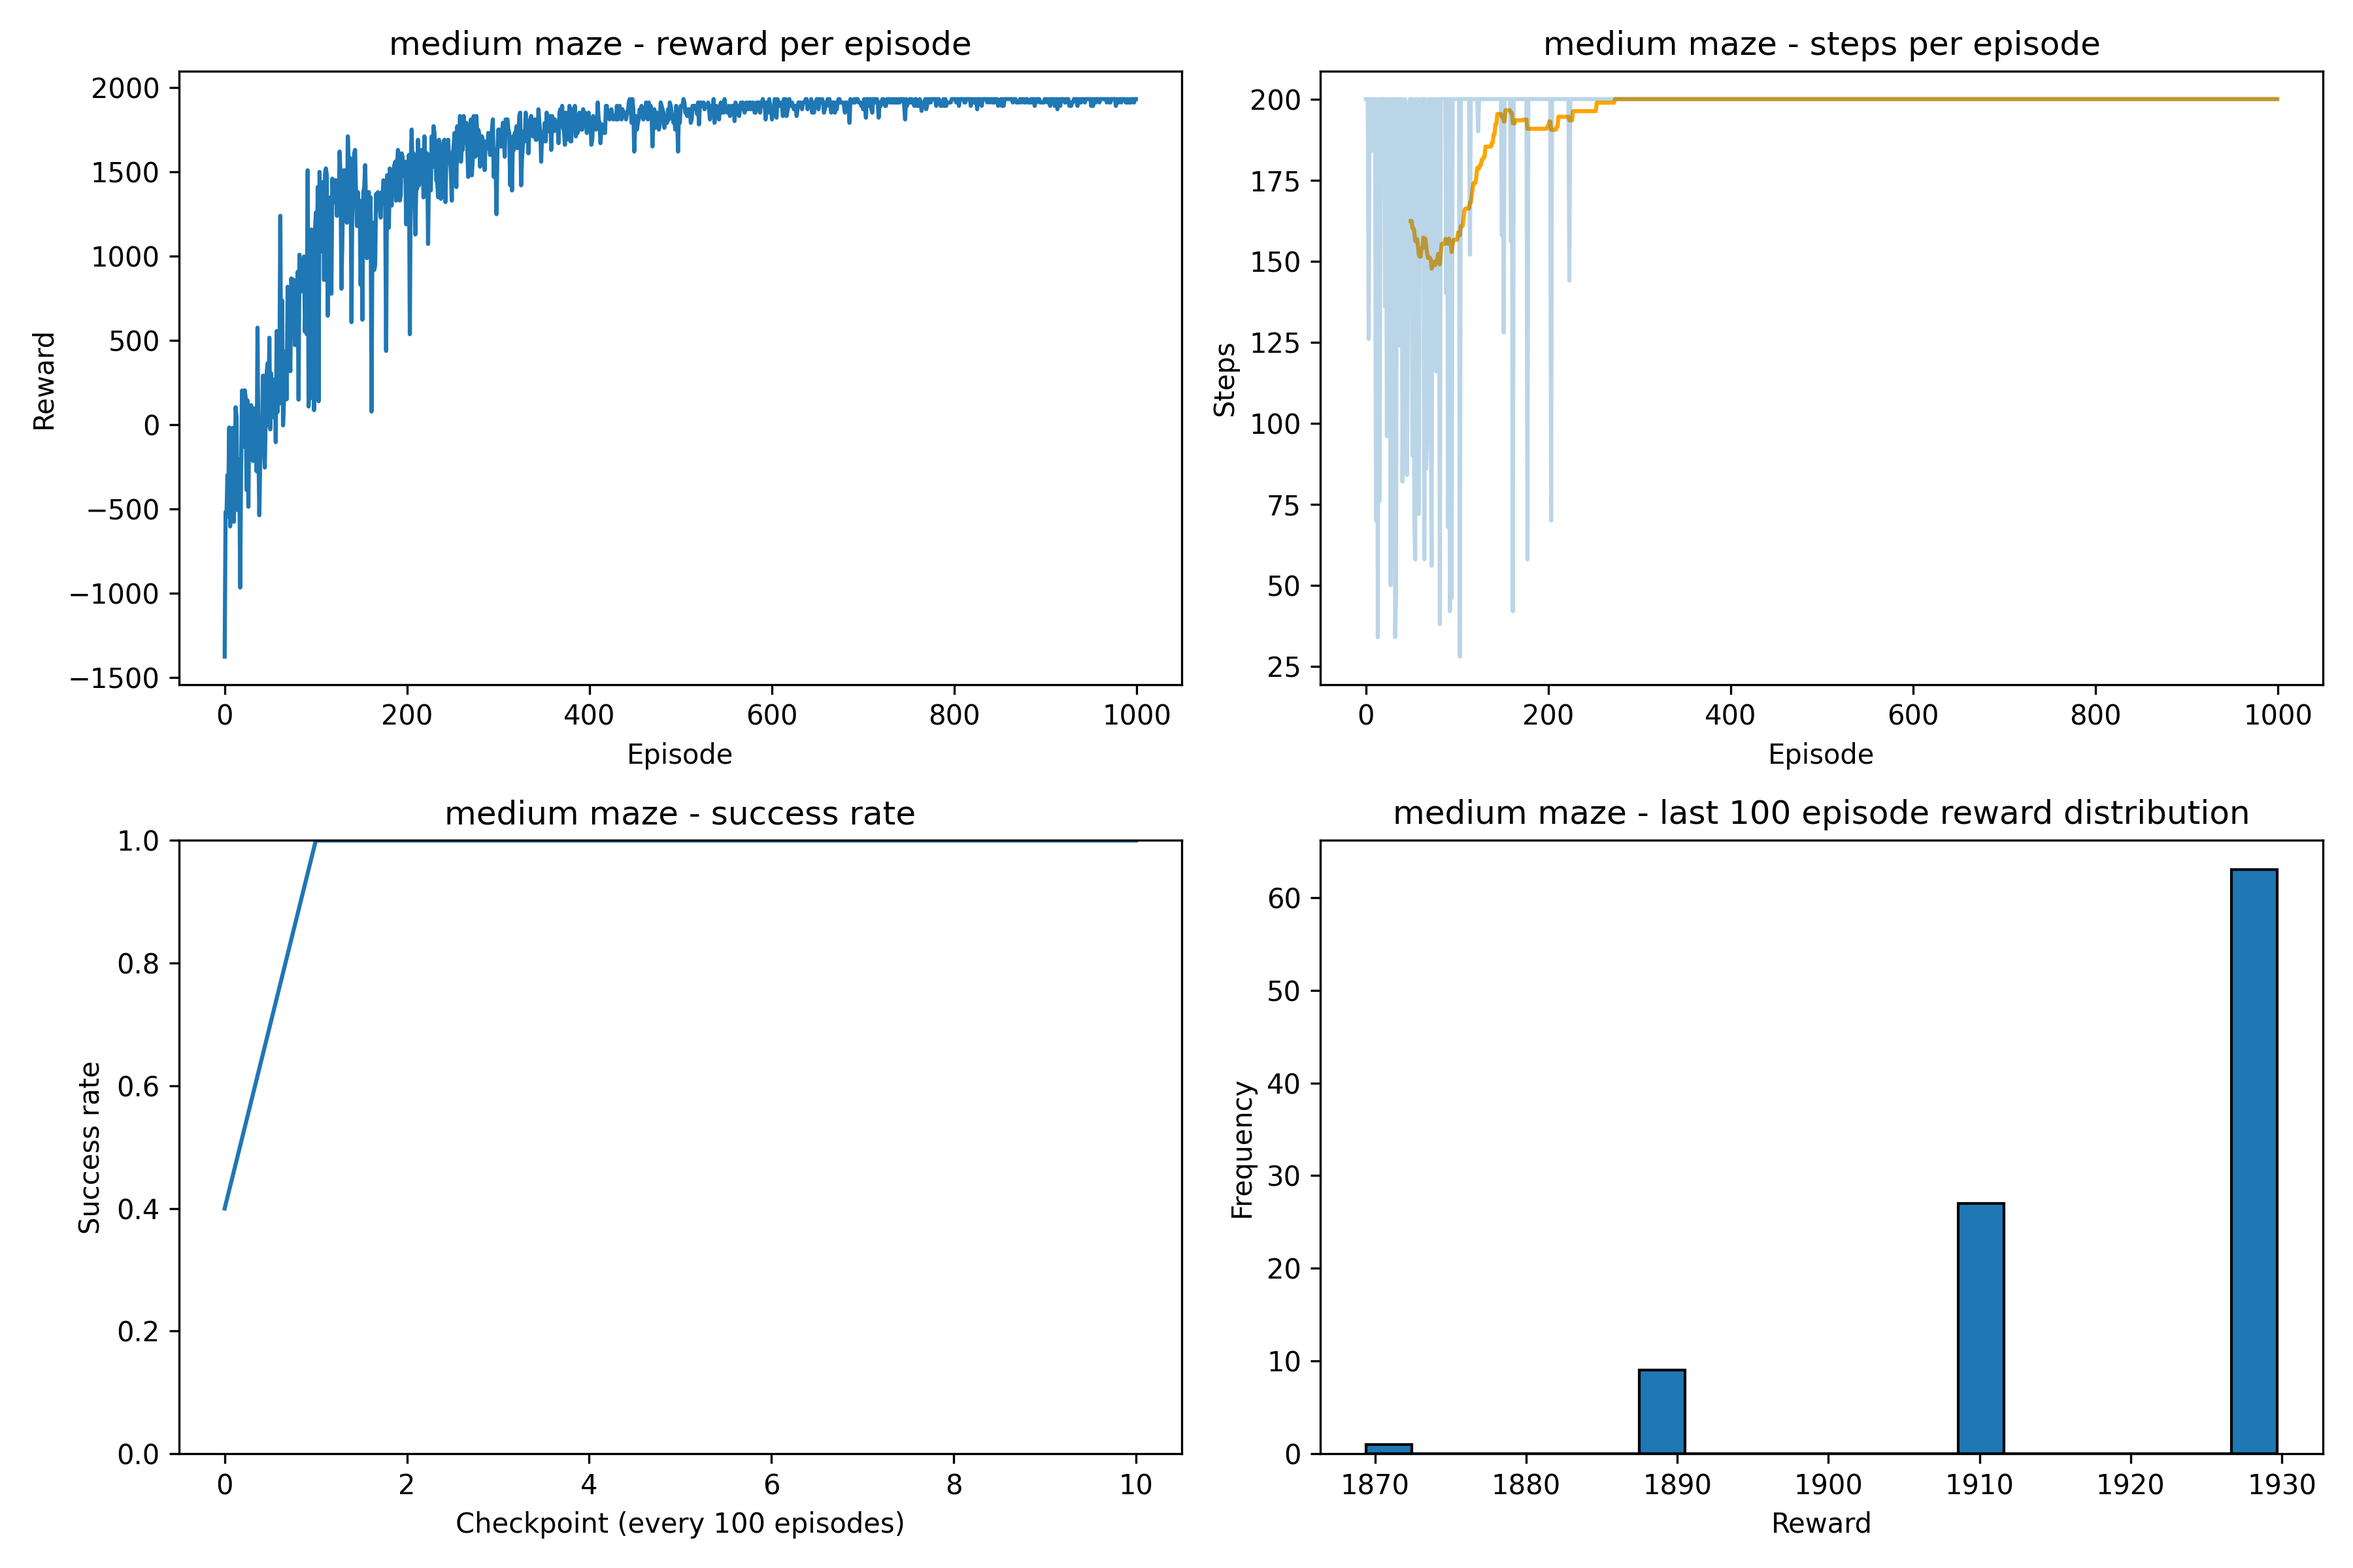
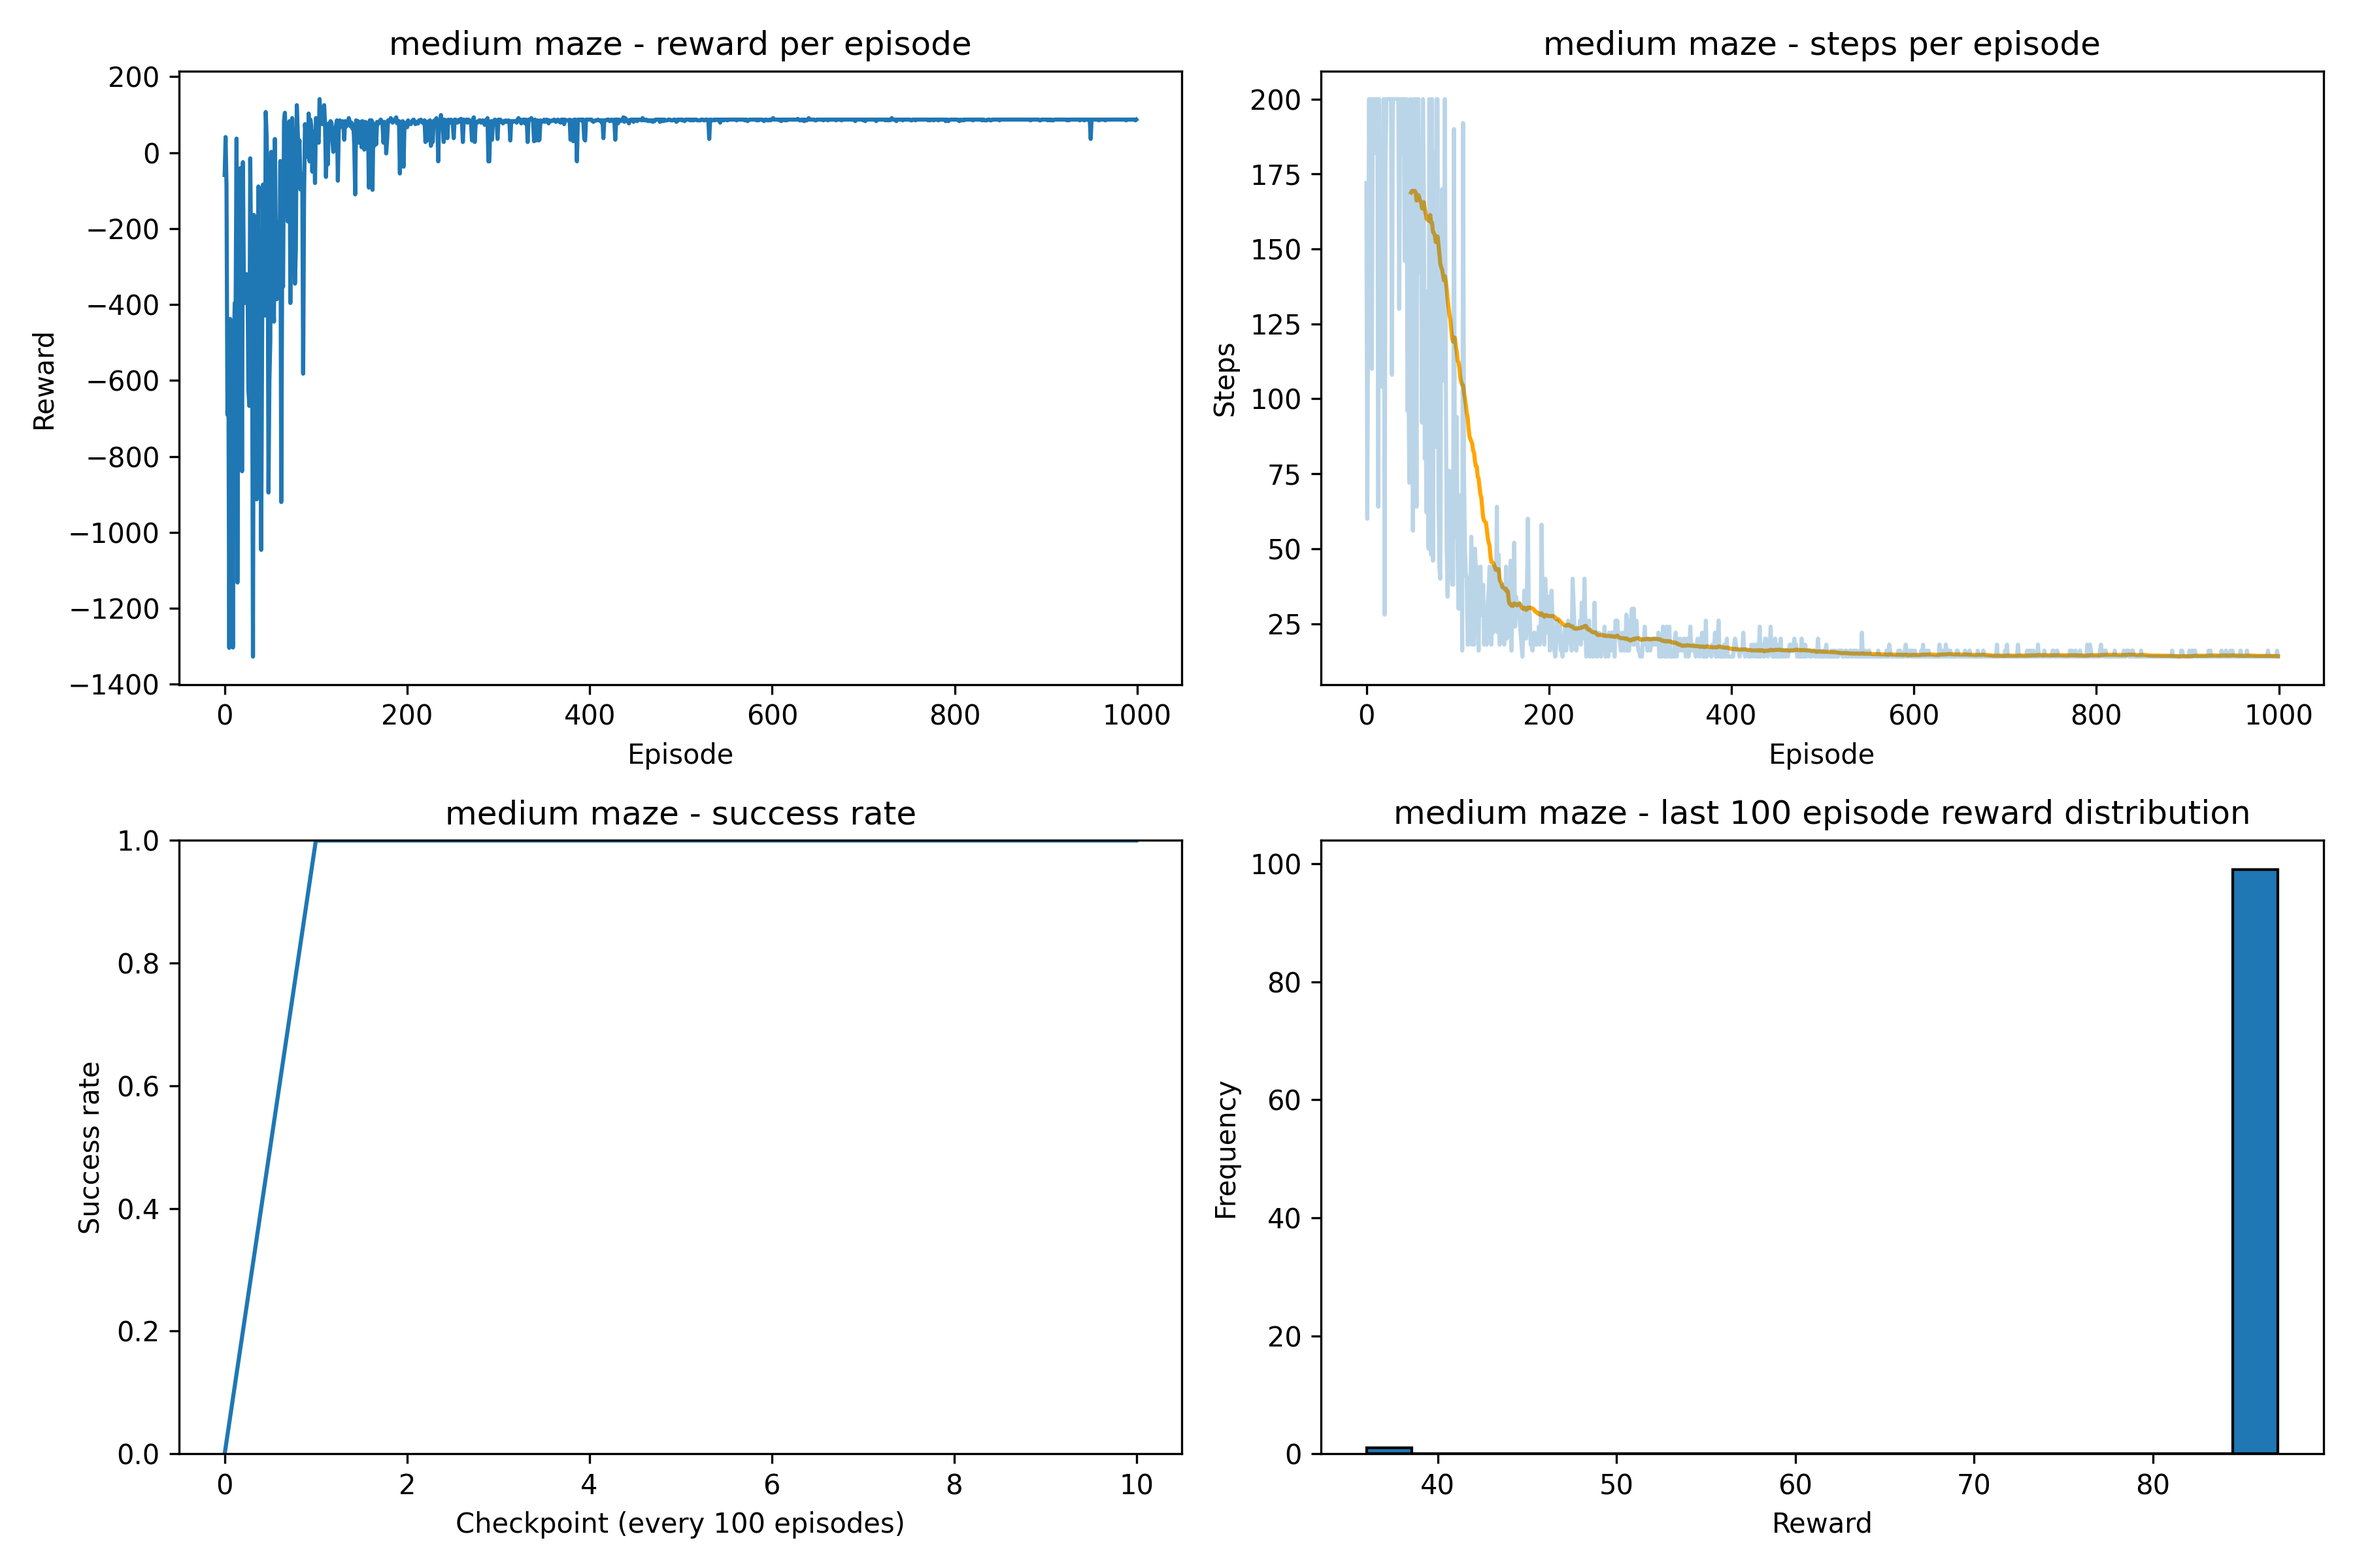
Add files via upload

diff --git a/maze_env.py b/maze_env.py
@@ -132,10 +132,11 @@ class MazeEnv:
                 reward = -50
                 done = False
             elif cell_value == self.BONUS:  # collected bonus
-                reward = 20
+                reward = 8
+                self.maze[new_row, new_col] = self.EMPTY  # bonus disappears
                 done = False
-            else:  # normal empty cell
-                reward = -0.1  # small step penalty to encourage shorter paths
+            else:  
+                reward = -1  # small step penalty to encourage shorter paths
                 done = False
         
         return self.get_state(), reward, done, {}

diff --git a/train.py b/train.py
@@ -17,8 +17,8 @@ def train_agent(env_type='simple', episodes=1000):
         learning_rate=0.1,
         discount_factor=0.9,
         exploration_rate=1.0,
-        exploration_decay=0.995,
-        min_exploration=0.01
+        exploration_decay=0.997,
+        min_exploration=0.02
     )
     
     # Training parameters
@@ -148,7 +148,7 @@ if __name__ == "__main__":
         episodes = 1000
     elif choice == '3':
         env_type = 'hard'
-        episodes = 2000
+        episodes = 5000
     else:
         print("Invalid choice, default to simple maze")
         env_type = 'simple'
